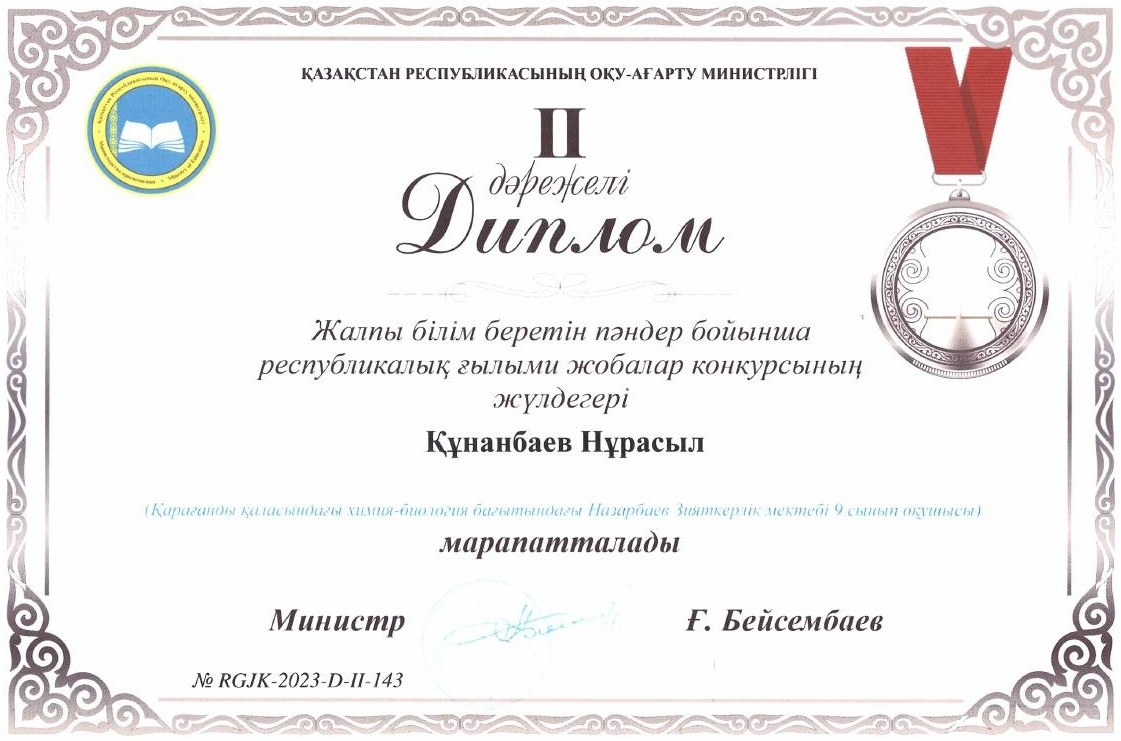
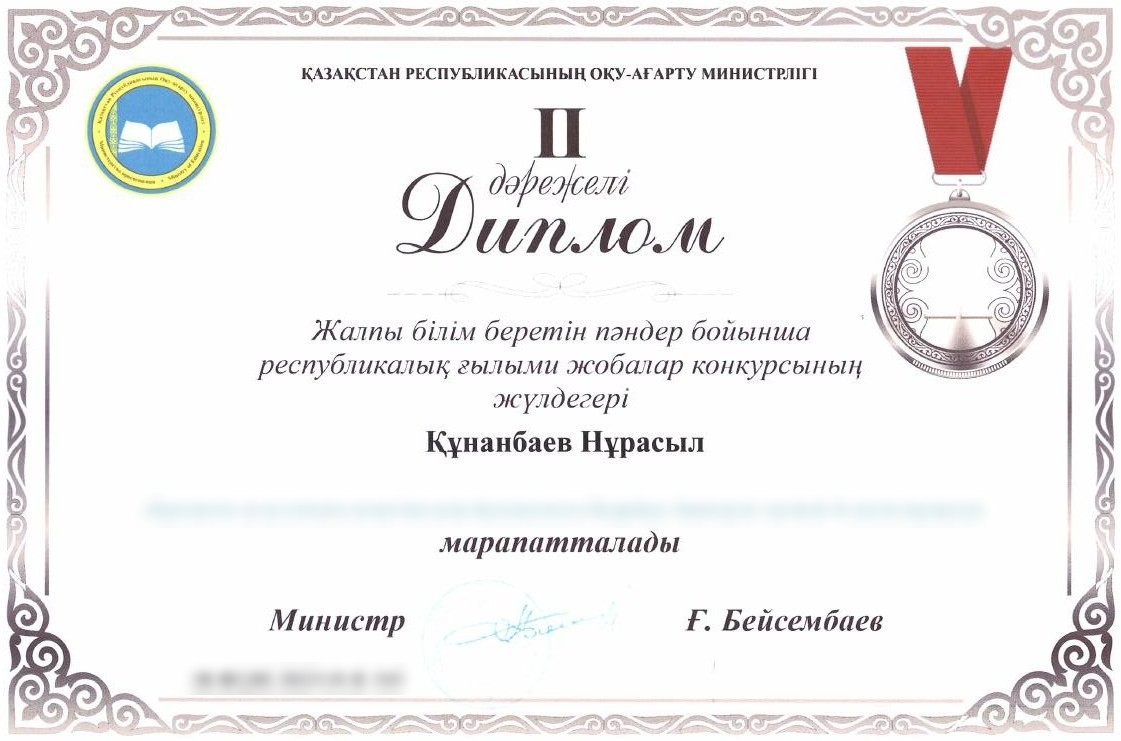
Story carousel: hide diploma numbers, QR code, school lines, supervisors and patronymic
Claude-Session: https://claude.ai/code/session_01EUKBNPzc7y2DXSfnei23HU

diff --git a/CLAUDE.md b/CLAUDE.md
@@ -28,6 +28,8 @@ You are continuing work on the personal brand and tutoring business of Nurassyl 
 
 ## Hard rules (never break these)
 
+0. **Privacy on documents.** Before publishing any diploma, letter or score report, hide: ID and serial numbers, QR codes, record locators, TRF numbers, his patronymic, his school name and class, and other people's names (supervisors, teachers). Keep his name, the award, the event and the date.
+
 1. **Never invent reviews, testimonials, quotes, scores or statistics.** No review exists for the UCSD student; show the grade only. If proof is missing, write a visible placeholder like `[Score]` and tell Nurassyl.
 2. **Official scores only.** Practice-test scores and expected scores are never published as results.
 3. **Consent first.** Publish a student's name, score or words only with written consent, plus a parent's consent if under 18. Anonymous is fine ("Student, grade 11").
